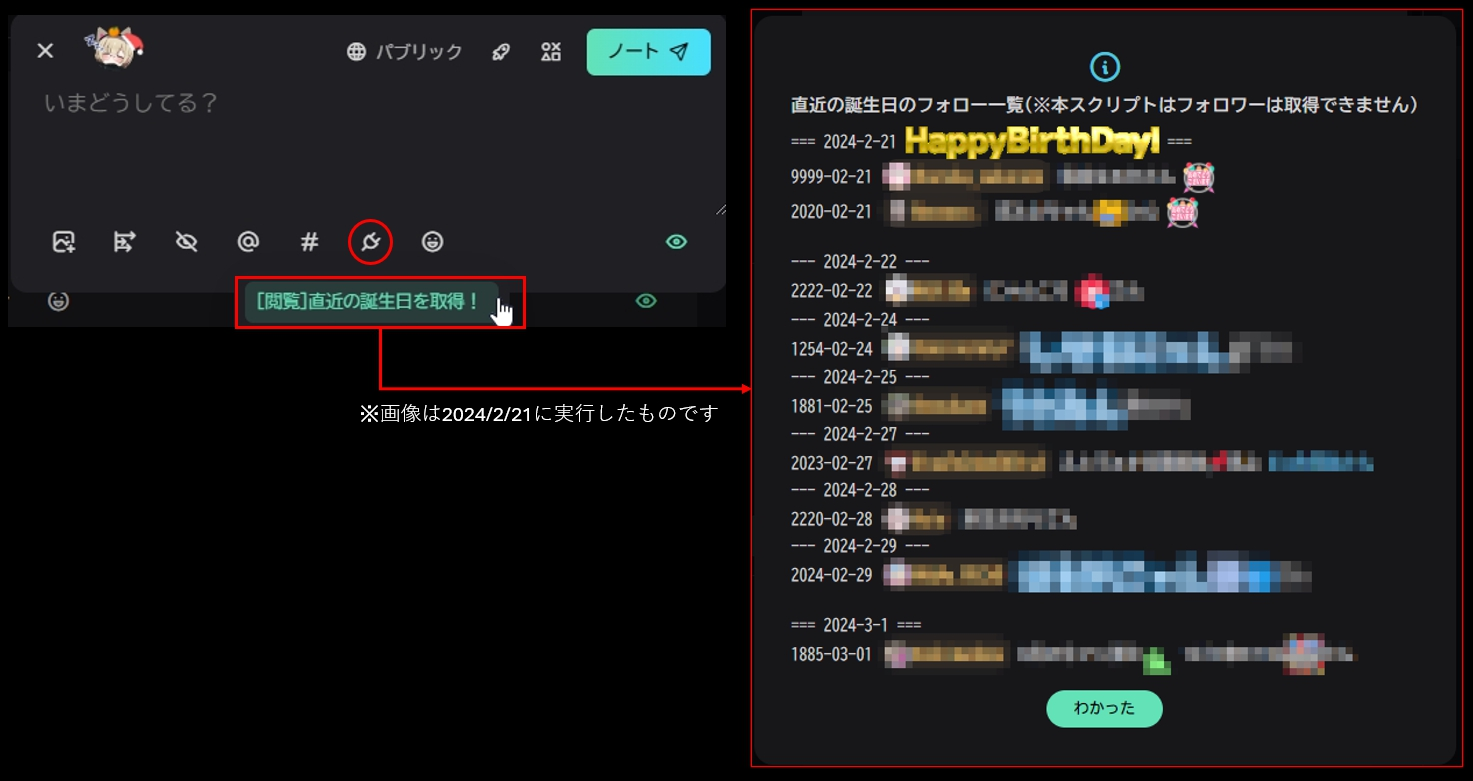
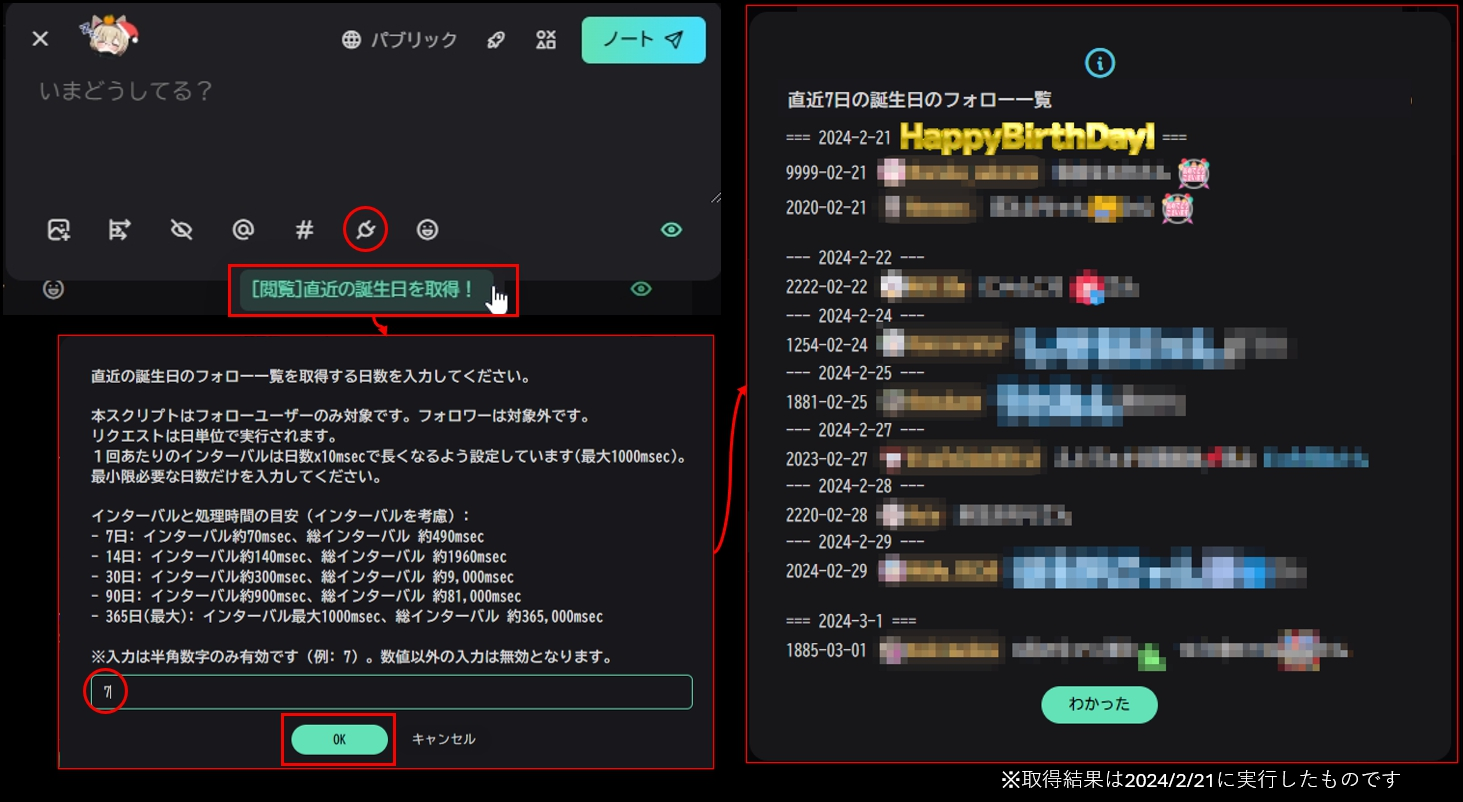
v0.1.0 ユーザーが直接日数を入力できる機能を追加

diff --git a/README.md b/README.md
@@ -1,11 +1,16 @@
 # misskey-birth-viewer-plugin
-フォローしているユーザーで誕生日が近い方の一覧を簡易に表示するMisskeyプラグインです。
+このMisskeyプラグインは、フォローしているユーザーの中で、誕生日が近い人々を見つけ出し、一覧表示します。特別な日を忘れずに、友達や知り合いに温かいメッセージを送れるようにしましょう。
 [AiScript](https://github.com/syuilo/aiscript/tree/master)によって記述されています。
 本プラグインはアイデアベースで試作したもののため、仕様は暫定的です。
-本プラグインの対象は現在同一サーバーのフォローしているユーザーのみになります。
+本プラグインは、フォローユーザーのみを対象としています。
+
+## 新機能と改善点
+- ユーザーが直接日数を入力できる機能を追加しました。
+- 設定項目を追加し、カスタマイズ可能になりました。
+- 処理時間の見積もりをより正確に行えるようにしました。
 
 ## 使い方
-ノート投稿部の`プラグイン`ボタン > `[閲覧]直近の誕生日を取得！`を選択すると、ダイアログウインドウにて結果が表示されます。
+ノート投稿部の`プラグイン`ボタン > `[閲覧]直近の誕生日を取得！`を選択し、表示される入力フォームにて取得する日数を入力すると、ダイアログウインドウにてフォローユーザーの誕生日一覧が表示されます。入力は半角数字のみ有効で、最大365日まで指定できます。
 
 ![image](images/image_001.jpg)
 
@@ -16,9 +21,7 @@
 4. `インストール`ボタンを押します。
 
 ###  カスタムCSSでのダイアログの表示修正
-以下は、ダイアログのテキスト表示を左詰めにしてウインドウサイズを変更するカスタムCSSです。
-デフォルトではテキストは中心揃えで、ウインドウ最大サイズが小さいため、作者は変更して利用しています。
-数値は自環境に合わせて適切に調整してください。
+以下のCSSは、ダイアログのテキスト表示を左詰めにし、ウインドウサイズを拡大するためのものです。デフォルトではテキストは中央揃えで、ウインドウサイズが小さいため、カスタムCSSで調整することをお勧めします。
 ```css
 .xa5A4 {
     min-width: 320px;
